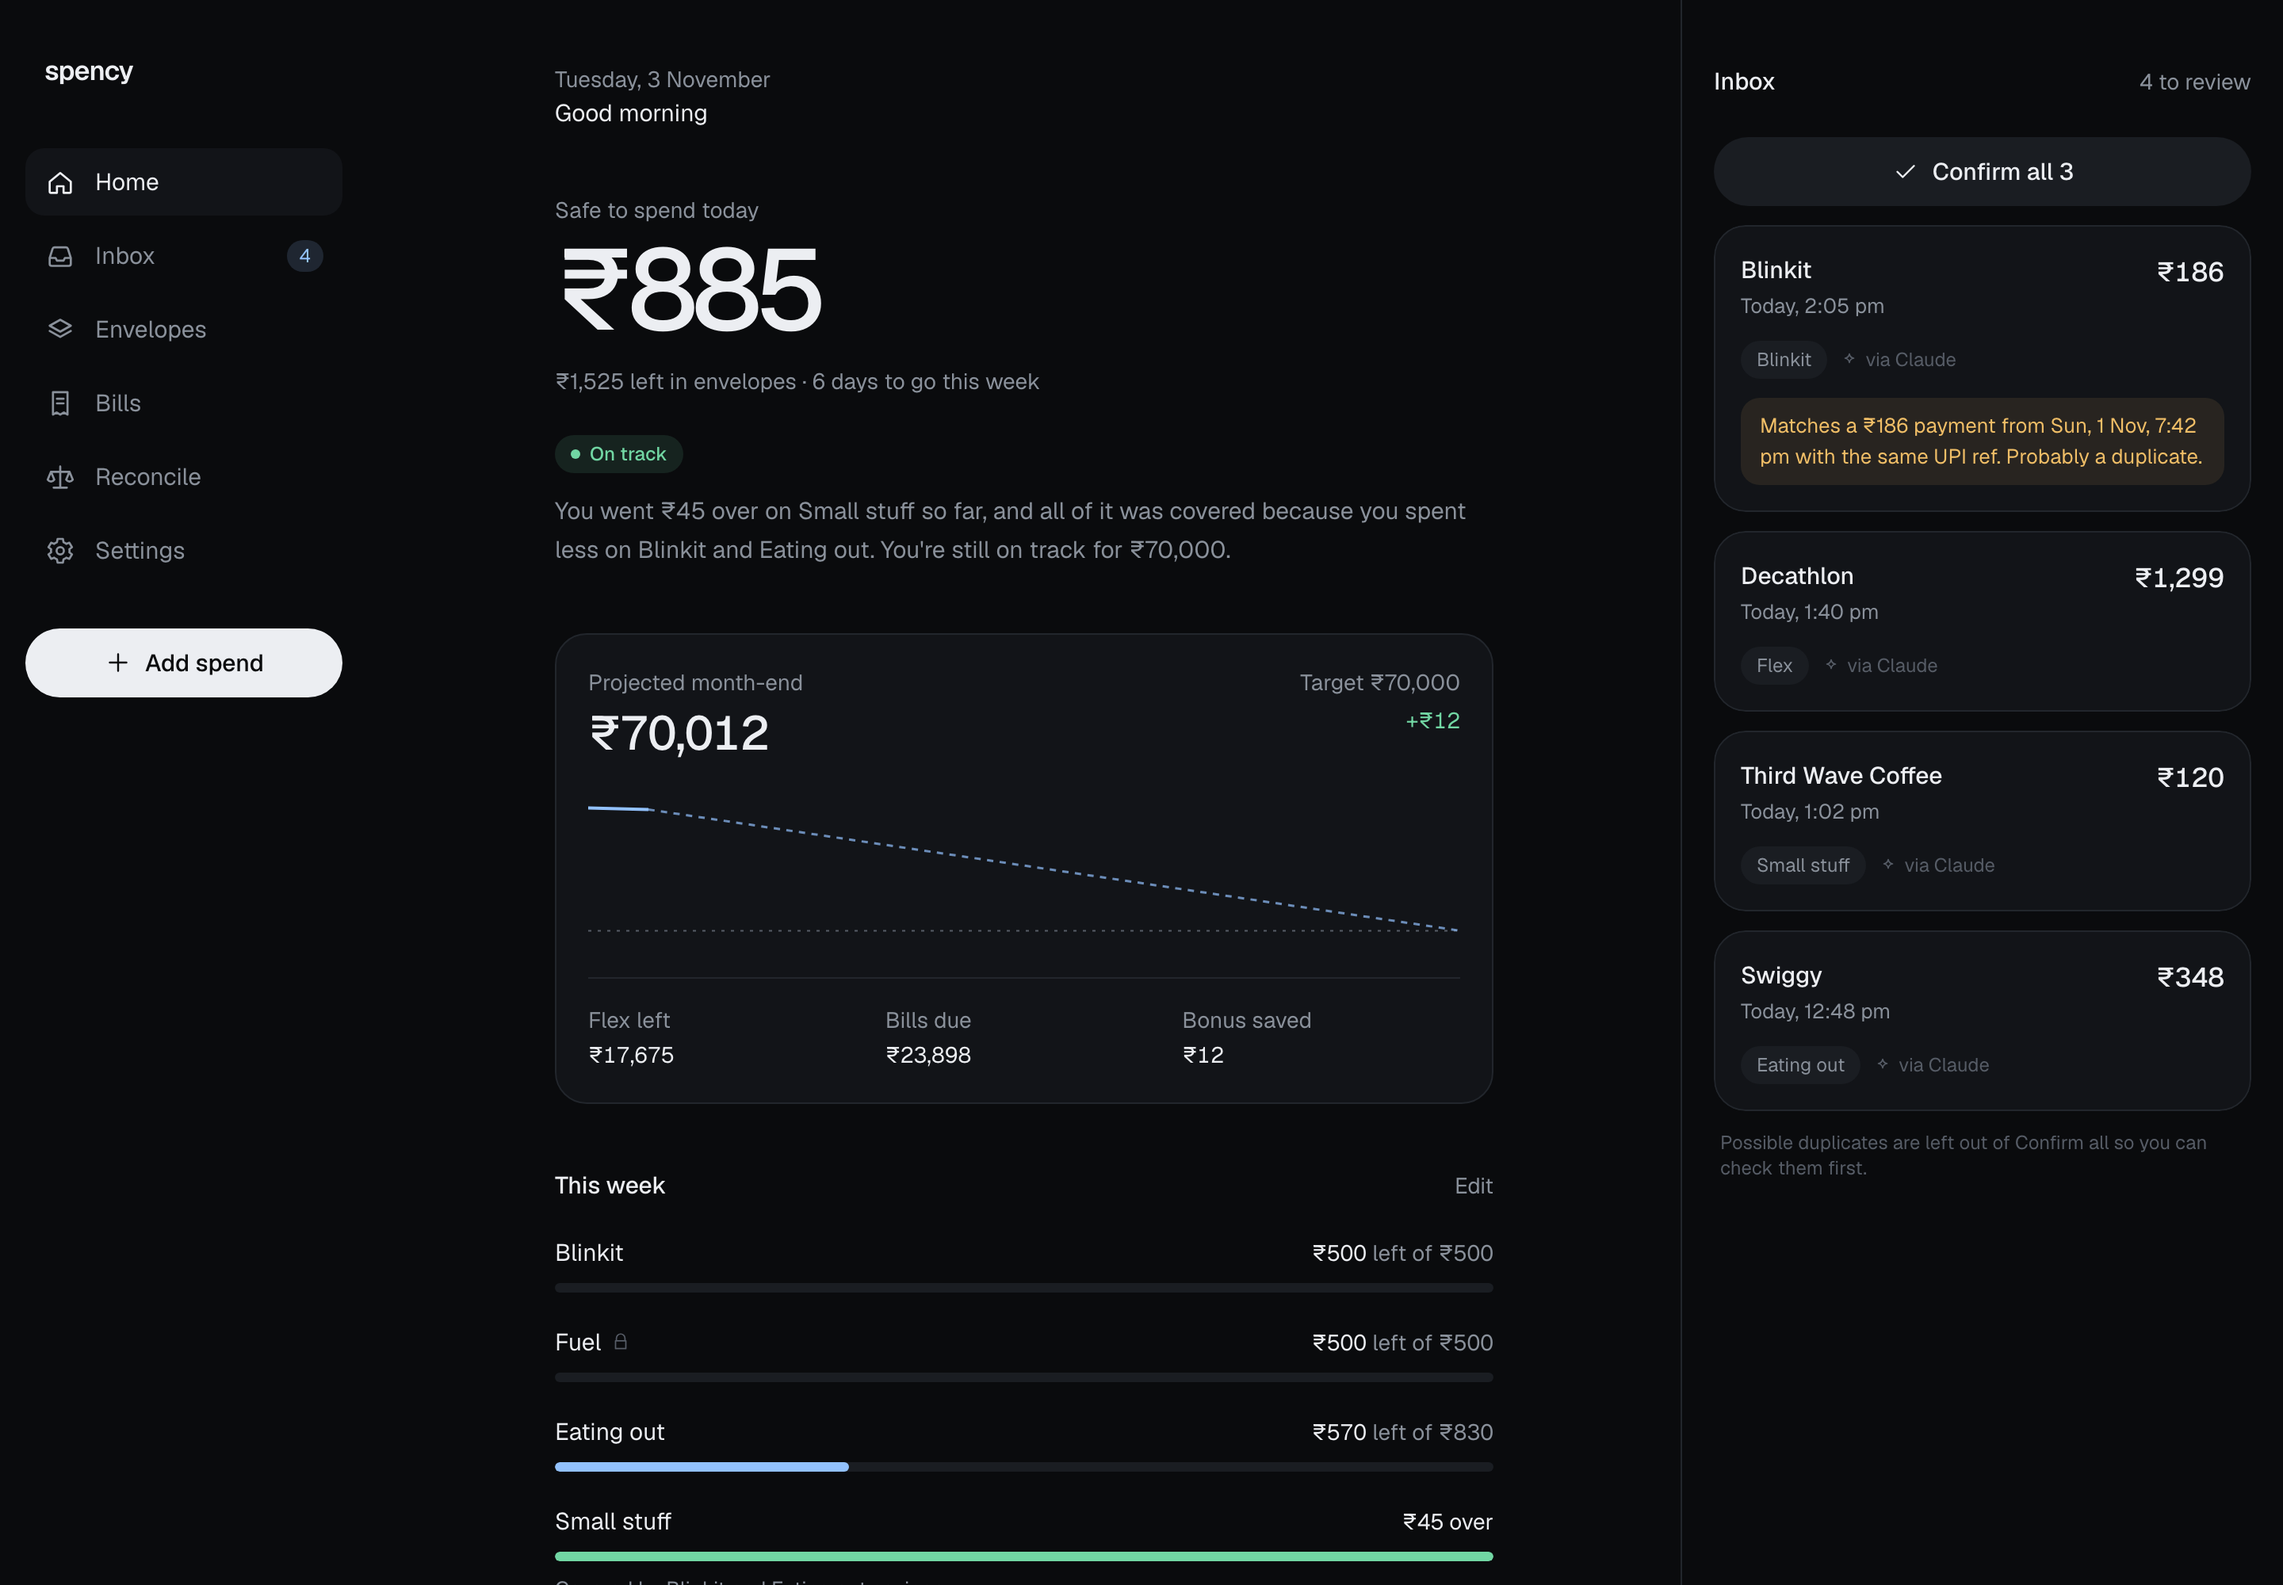
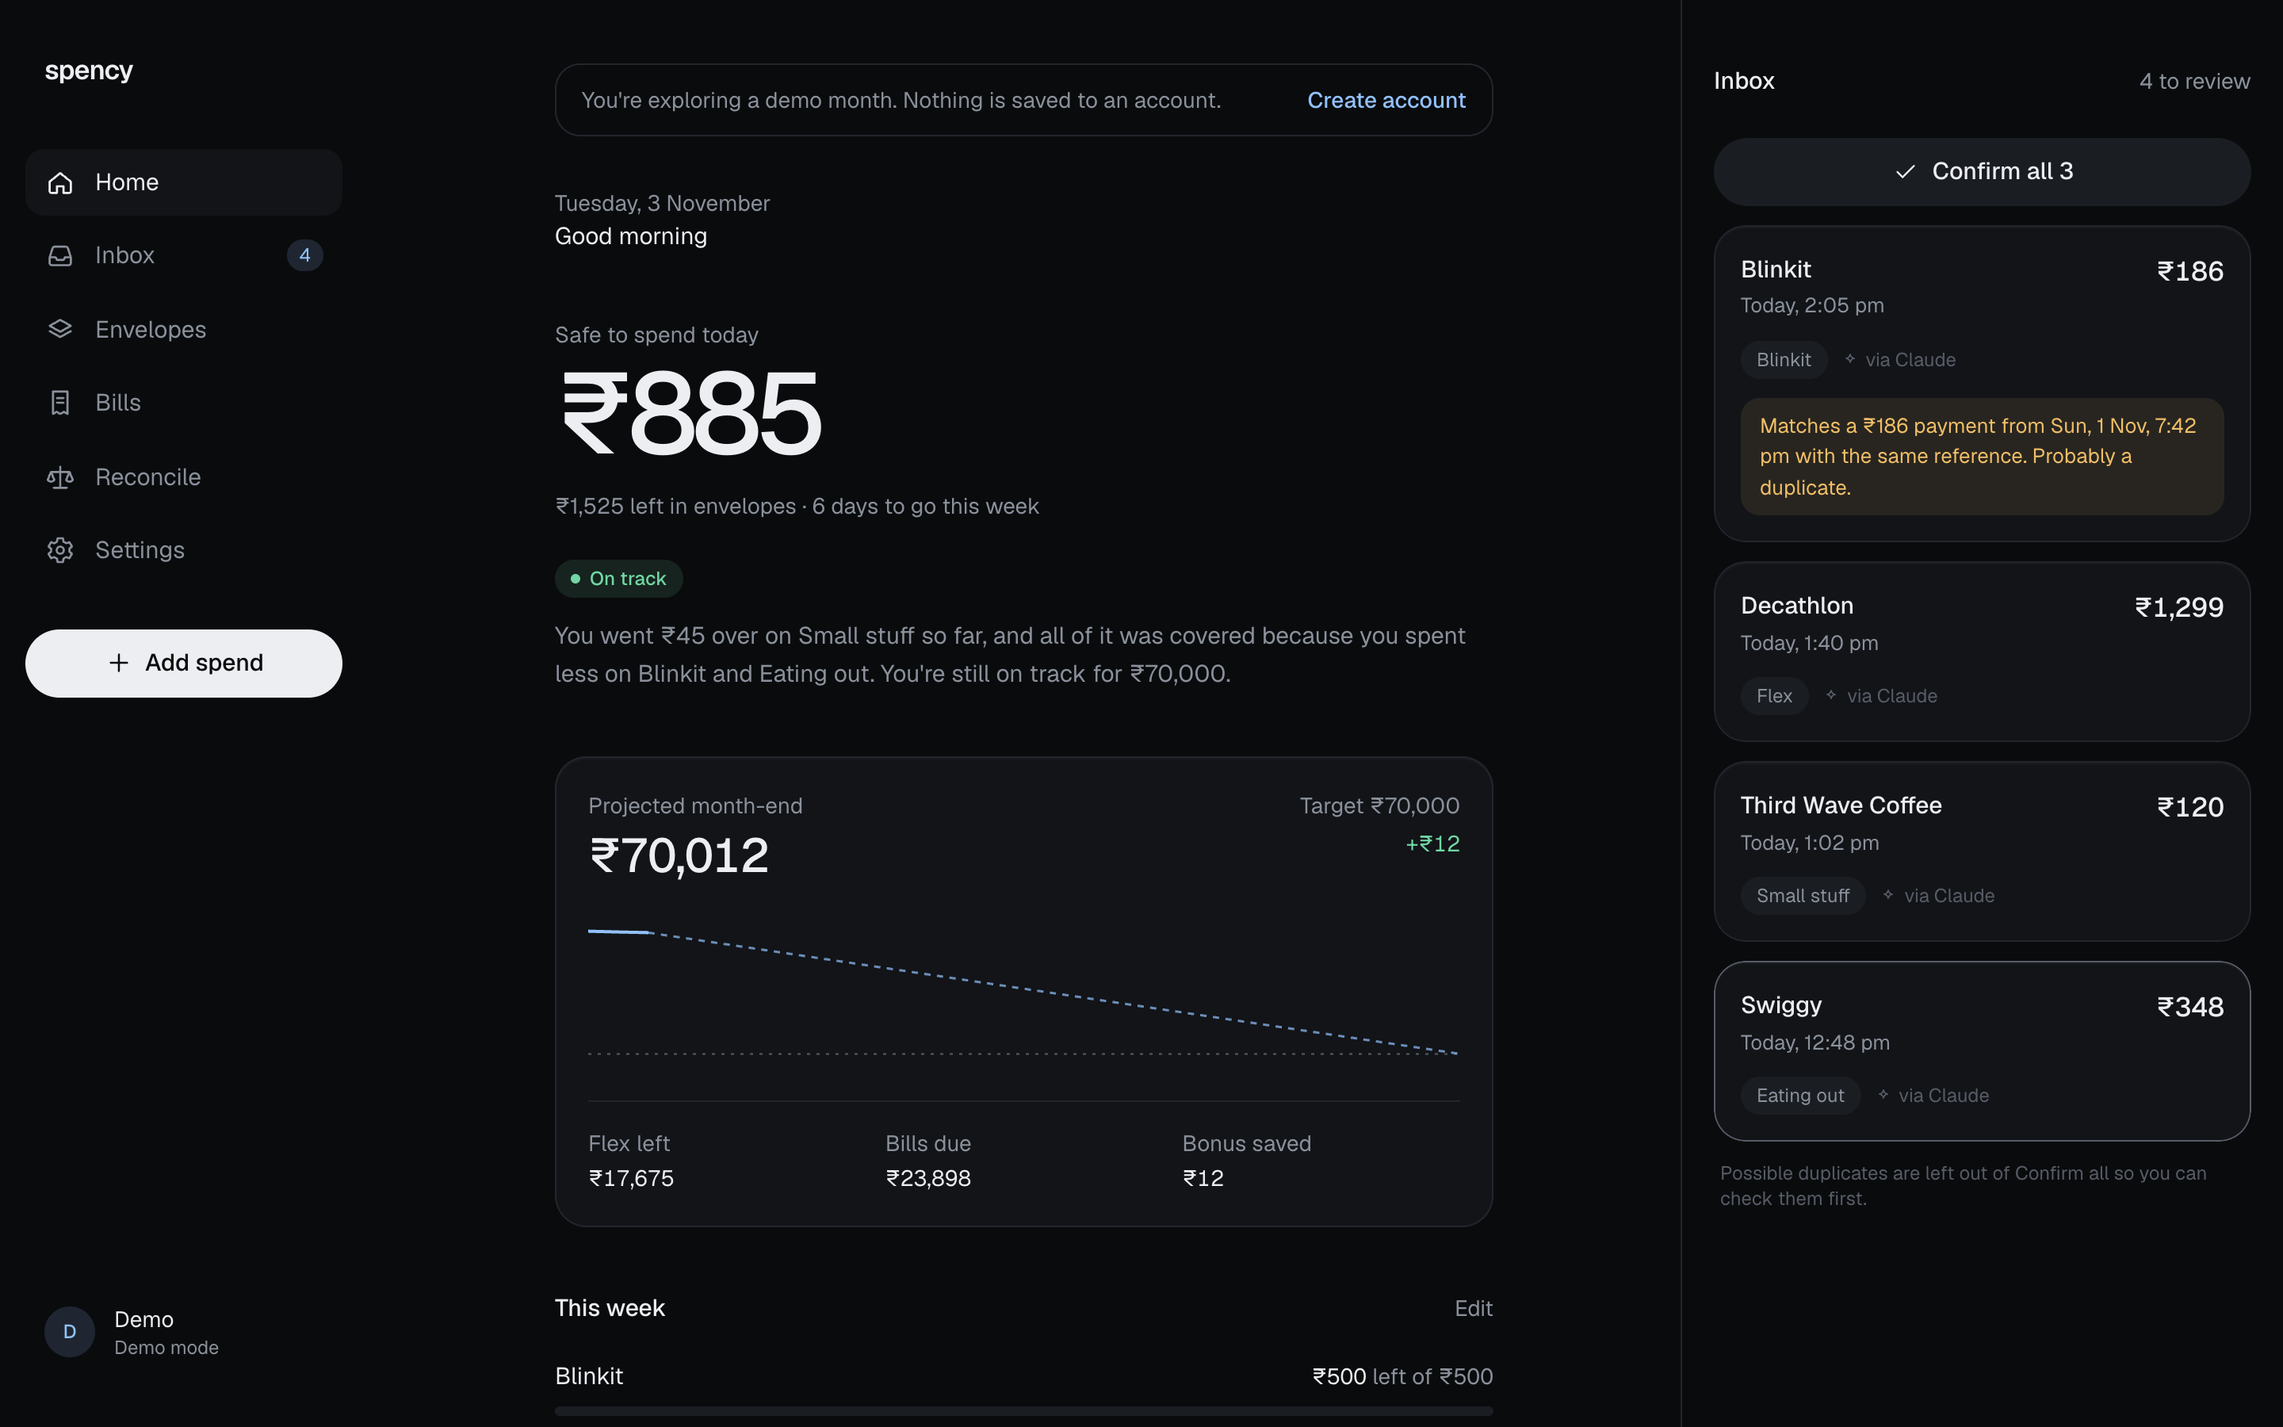
README: open-source layout with Phase 2 screenshots
One-line description, CI and license badges and a one-command run at
the top, then dark/light/settings and desktop screenshots, features,
how Spency becomes Claude's wallet, Supabase setup (db push --remote
for CLI 3), formulas, architecture and roadmap. Stale Phase 1
screenshots removed.

diff --git a/README.md b/README.md
@@ -1,83 +1,118 @@
 # Spency
 
-A calm spending tracker that helps you end every month with the bank balance you planned, and that Claude keeps up to date for you.
+A calm spending tracker that keeps you on course for the month-end balance you planned, kept up to date by Claude.
 
-You tell Spency your balance today and the balance you want at month-end. It reserves your fixed bills, splits the rest into weekly envelopes (Blinkit, Fuel, Small stuff…) and a flex pool, and tells you one number every morning: **how much is safe to spend today**.
+[![CI](https://github.com/apurvamukherjee/spency-pocket-wallet/actions/workflows/ci.yml/badge.svg)](https://github.com/apurvamukherjee/spency-pocket-wallet/actions/workflows/ci.yml)
+[![License: MIT](https://img.shields.io/badge/license-MIT-blue.svg)](LICENSE)
 
-> Status: **Phase 1 complete, awaiting review.** Every screen and the full budget engine run on a demo month stored in your browser. No accounts or database yet.
+```bash
+git clone https://github.com/apurvamukherjee/spency-pocket-wallet.git && cd spency-pocket-wallet && npm install && npm run dev
+```
 
 <p>
-  <img src="docs/screenshots/home-mobile.png" width="220" alt="Home: safe to spend today, projected month-end and envelope bars">
-  <img src="docs/screenshots/inbox-mobile.png" width="220" alt="Inbox: payments from Claude waiting to be confirmed, with a duplicate flagged">
-  <img src="docs/screenshots/envelopes-mobile.png" width="220" alt="Envelopes: weekly limits, lock and leftover rules">
+  <img src="docs/screenshots/home-mobile.png" width="240" alt="Home in dark mode: safe to spend today, status, and a summary of this week">
+  <img src="docs/screenshots/home-mobile-light.png" width="240" alt="Home in light mode with the month-end projection chart">
+  <img src="docs/screenshots/settings-mobile.png" width="240" alt="Settings: profile, theme toggle, currency, language and time zone">
 </p>
 
-<img src="docs/screenshots/desktop.png" alt="Desktop: navigation, Home, and the persistent Inbox panel">
+<img src="docs/screenshots/desktop.png" alt="Desktop: navigation, Home, and the persistent Inbox of payments from Claude">
 
-## What works today
+> **Status:** Phase 2 (accounts and sync) is built and in review. The Claude connector (Phase 3) is next. See the [roadmap](#roadmap).
 
-- **Safe to spend today**: envelope money left this week plus a fair share of flex, spread over the days left.
-- **Weekly settlement, live**: overspend is covered by savings from unlocked envelopes, then flex, then the month-end target. Home shows "Covered by Blinkit savings" the moment an envelope goes over, with a plain-language summary.
-- **Projected month-end** vs target with a small chart, plus flex left, bills still due and bonus saved.
-- **Inbox**: swipe right to confirm, left to dismiss, tap to fix amount or category. Duplicates (same UPI ref, or same merchant and amount within 2 minutes) are flagged and kept out of Confirm all.
-- **Merchant memory**: recategorize Swiggy once and future Swiggy payments land in the right envelope.
-- **Envelopes**: weekly limits, locked envelopes, leftover rules (roll over, to flex, save it), and week-by-week history.
-- **Bills**: recurring commitments reserved before anything else.
-- **Cash**: withdrawals are transfers, not spending; cash spends still count toward envelopes.
-- **Reconcile**: compare with your real bank balance, then find the gap with Claude, log an adjustment or ignore it. Daily streak.
-- **Onboarding** in three short steps, and Settings to re-baseline the plan.
+## What it does
 
-## How the numbers work
+You tell Spency your balance today and the balance you want at month-end. It sets aside your bills, splits the rest into weekly envelopes (groceries, eating out, transport…) plus a flex pool, and gives you one number each morning: **how much is safe to spend today**.
 
-Everything is derived from the month plan plus confirmed transactions, in integer paise. The engine is plain TypeScript in [`lib/engine`](lib/engine) with no framework imports, covered by Vitest.
-
-- `spendable = bank + cash − target (+ salary due this month)`
-- `flex = spendable − bills this month − envelope allocation`
-- Envelope allocation is prorated by day: `weekly limit / 7 × days of each week inside the month`. Partial weeks at the start and end of the plan settle on that prorated limit.
-- `projected month-end = money now + salary still due − bills still due − envelope money left − unused flex`. If you spend exactly to plan, this equals your target to the rupee.
+- **Overspending is handled for you.** Go over on one envelope and Spency covers it from what you saved in others, then from flex, and only then from your month-end target. It tells you plainly: "You went $15 over on Coffee, and all of it was covered because you spent less on Groceries."
+- **Projected month-end** against your target, updated with every payment.
+- **Inbox** of payments Claude read from your screenshots. Swipe right to confirm, left to dismiss. Duplicates are flagged.
+- **Merchant memory.** Recategorize a shop once; future payments there land in the right envelope.
+- **Cash** withdrawals are transfers, not spending. Cash purchases still count toward envelopes.
+- **Daily reconcile** against your real bank balance, with a streak.
+- **Works everywhere.** Any currency, number format and time zone. Dark mode by default, light mode in Settings.
+- **Private by design.** Spency never asks for bank logins. It only knows what you or Claude tell it.
 
 ## Spency as Claude's wallet
 
-The point of Spency is that you don't type in transactions. Claude does.
+The point is that you don't type transactions in. Claude does.
 
 ```
- You ──(UPI screenshot)──▶ Claude chat
-                             │  reads merchant, amount, time, UPI ref
-                             ▼
-                   Spency MCP connector  ──▶  Inbox (pending)
-                                                  │ swipe → confirm
-                                                  ▼
+ You ──(payment screenshot)──▶ Claude
+                                 │  reads merchant, amount, time, reference
+                                 ▼
+                      Spency connector (MCP) ──▶ Inbox (pending)
+                                                    │ swipe to confirm
+                                                    ▼
                                     envelopes · flex · month-end projection
 ```
 
-1. You add Spency to Claude as a **custom connector** (a remote MCP server hosted on the same Vercel deployment). You sign in once with OAuth, so your Claude is tied to your Spency account.
-2. You drop UPI payment screenshots into any Claude chat. Claude extracts the merchant, amount, time and UPI reference, maps them to your envelope names, and calls `add_transactions`.
-3. Everything Claude sends lands in your Spency **Inbox** as *pending*. Nothing touches your balances until you swipe to confirm.
-4. You can also just ask Claude: *"Can I afford a ₹1,500 dinner tonight?"* It calls `get_summary` and answers from your real numbers.
+1. Add Spency to Claude as a **custom connector**: a remote MCP server on the same deployment. You sign in once, so your Claude is tied to your Spency account.
+2. Drop payment screenshots into any Claude chat. Claude extracts the merchant, amount, time and reference, maps them to your envelope names, and sends them over.
+3. Everything Claude sends lands in your Inbox as **pending**. Nothing touches your balances until you confirm it.
+4. Ask Claude things like *"Can I afford a $60 dinner tonight?"* and it answers from your real numbers.
 
-Spency never sees bank credentials. It only knows what you or Claude tell it.
+Planned tools: `get_summary`, `add_transactions` (deduplicated by payment reference), `list_transactions`, `update_envelope`, `add_commitment`, `log_cash`, `reconcile`. Shipping in Phase 3.
 
-Planned MCP tools: `get_summary`, `add_transactions` (deduped by UPI ref), `list_transactions`, `update_envelope`, `add_commitment`, `log_cash`, `reconcile`.
+## Run it
+
+**Demo mode (no setup):** `npm install && npm run dev`, then open http://localhost:3000. You get a sample month stored in your browser.
+
+**With accounts:** Spency uses [Supabase](https://supabase.com) for Postgres and auth.
+
+1. Create a free Supabase project.
+2. `cp .env.example .env.local` and fill in `NEXT_PUBLIC_SUPABASE_URL` and `NEXT_PUBLIC_SUPABASE_PUBLISHABLE_KEY` (Project Settings → API).
+3. Apply the schema:
+   ```bash
+   npx supabase login
+   npx supabase link --project-ref <your-project-ref>
+   npx supabase db push --remote
+   ```
+4. In Supabase → Authentication → URL Configuration, set the Site URL and add `<your-site>/auth/confirm` to the redirect URLs.
+5. `npm run dev`, then create an account.
+
+```bash
+npm test           # engine tests
+npm run typecheck
+npm run lint
+npm run build
+```
+
+## How the numbers work
+
+Everything shown is derived from the month plan plus confirmed transactions, in integer minor units (cents, paise, yen). The engine is plain TypeScript in [`lib/engine`](lib/engine) with no framework imports, covered by Vitest.
+
+- `spendable = bank + cash − target (+ pay still due this month)`
+- `flex = spendable − bills this month − envelope allocation`
+- Envelope allocation is prorated by day: `weekly limit / 7 × days of each week inside the month`, rounded to a whole unit of your currency.
+- `projected month-end = money now + pay still due − bills still due − envelope money left − unused flex`. If you spend exactly to plan, this equals your target.
+
+## Architecture
+
+One Next.js 16 app serves the UI, the server actions and (from Phase 3) the MCP server.
+
+| Layer | Where | Notes |
+|---|---|---|
+| Budget engine | `lib/engine/` | Pure functions: settlement, projection, proration, money formatting. |
+| Data | `lib/data/` | Pure reducers shared by the local demo (Zustand) and the cloud (TanStack Query + Supabase, optimistic). |
+| Database | `supabase/migrations/` | Postgres with row level security on every table; composite keys stop cross-user references. |
+| Auth | `app/(auth)/`, `proxy.ts` | Email and password through Supabase; the proxy refreshes the session cookie. |
+| UI | `app/(app)/`, `components/` | Tailwind CSS 4, hand-drawn icons and charts, native `<dialog>` sheets. |
 
 ## Roadmap
 
 | Phase | What | State |
 |---|---|---|
-| 1 | All screens + weekly settlement engine on seed data, Vitest coverage | done, in review |
-| 2 | Supabase schema, RLS, auth, real data | — |
-| 3 | MCP server with OAuth, connector setup guide | — |
-| 4 | Pattern detection, rebalance suggestions, polish, accessibility | — |
+| 1 | Screens and weekly settlement engine on local data | done |
+| 2 | Supabase schema, row level security, accounts, sync, any currency, light theme | done, in review |
+| 3 | MCP server with OAuth, Claude connector setup guide | next |
+| 4 | Pattern detection, rebalance suggestions, polish, accessibility | planned |
 
-Full product spec: [SPEC.md](SPEC.md).
+The full product spec is in [SPEC.md](SPEC.md) and the changes are in [CHANGELOG.md](CHANGELOG.md).
 
-## Run it
+## Contributing
 
-```bash
-npm install
-npm run dev        # http://localhost:3000 (opens on a demo month)
-npm test           # engine tests
-npm run typecheck
-npm run lint
-```
+Issues and pull requests are welcome. Start with [CONTRIBUTING.md](CONTRIBUTING.md). Questions go to [Discussions](https://github.com/apurvamukherjee/spency-pocket-wallet/discussions).
 
-Stack: Next.js 16 (App Router), React 19, Tailwind CSS 4, Zustand, Vitest. One repo: the same Next.js app serves the UI, the API and (from Phase 3) the MCP server. Dark mode only. Money is stored as integer paise and shown in Indian digit grouping (₹1,00,000), dates in Asia/Kolkata.
+## License
+
+[MIT](LICENSE) © Apurva Mukherjee
